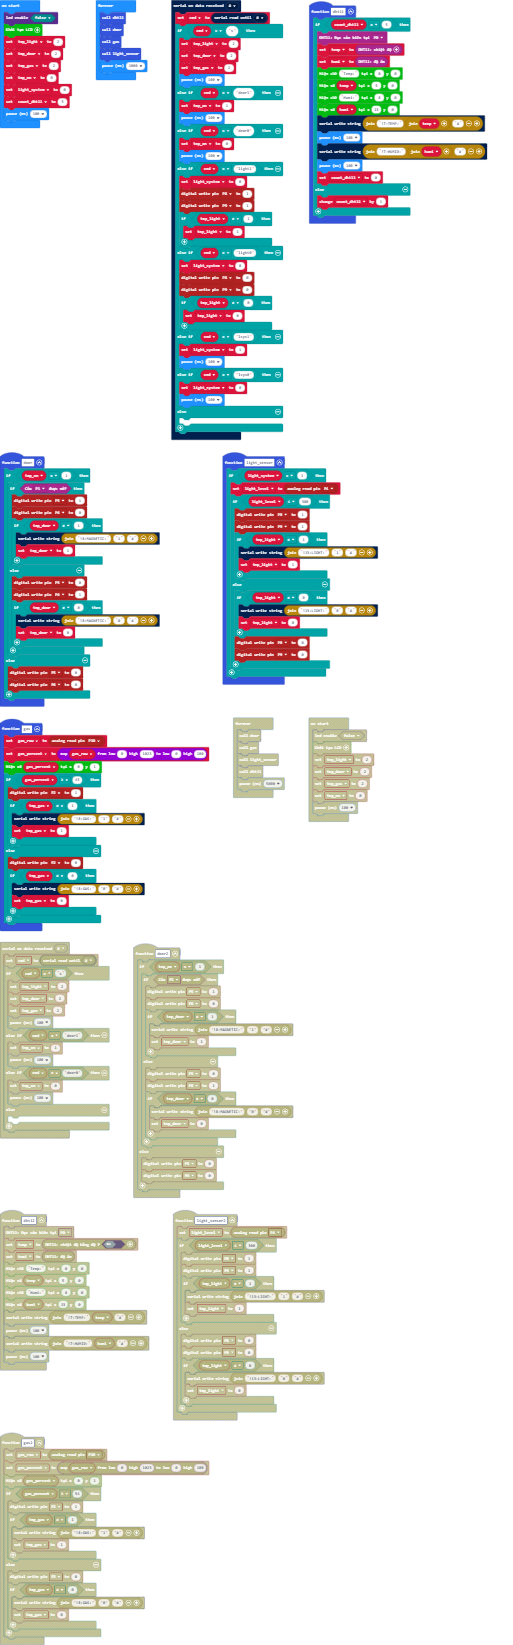
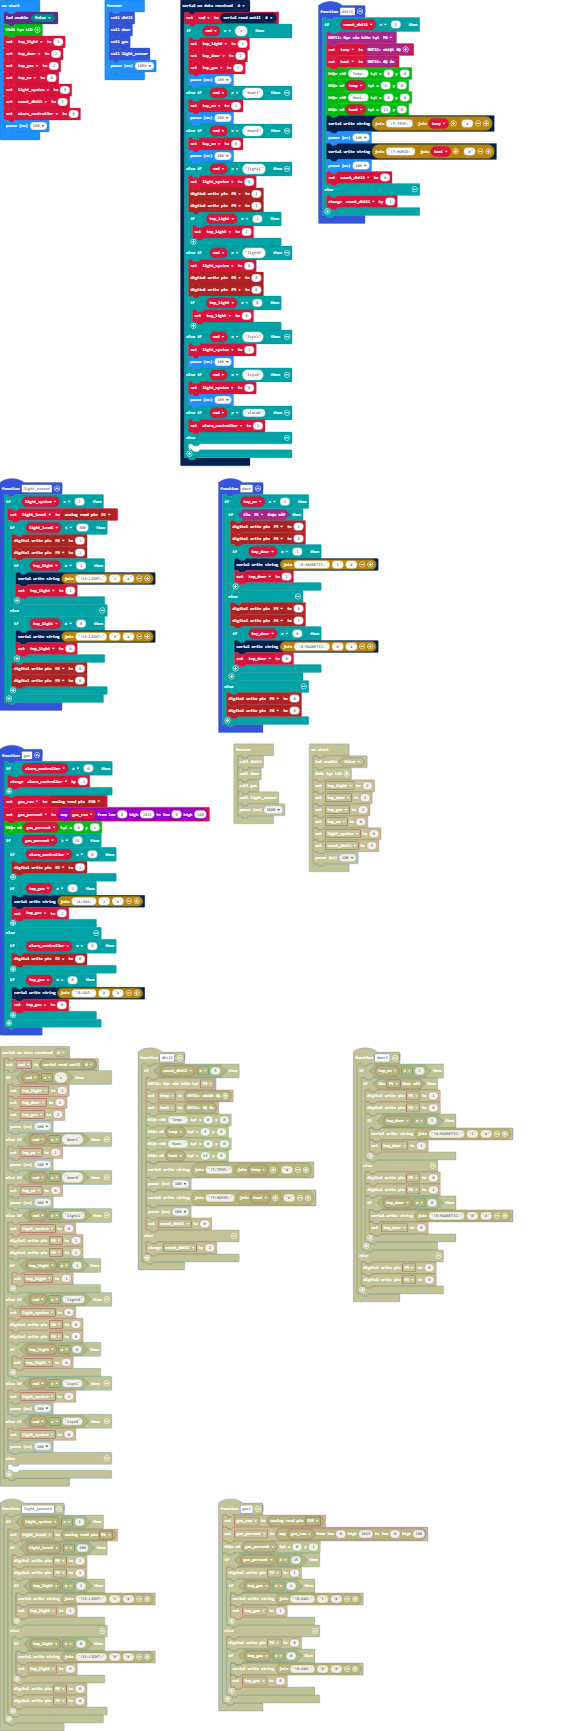
add alarm controller

diff --git a/main.ts b/main.ts
@@ -59,17 +59,24 @@ function door () {
     }
 }
 function gas () {
+    if (alarm_controller != 0) {
+        alarm_controller += -1
+    }
     gas_raw = pins.analogReadPin(AnalogPin.P10)
     gas_percent = Math.map(gas_raw, 0, 1023, 0, 100)
     NPNLCD.ShowNumber(gas_percent, 0, 1)
     if (gas_percent >= 45) {
-        pins.digitalWritePin(DigitalPin.P2, 1)
+        if (alarm_controller == 0) {
+            pins.digitalWritePin(DigitalPin.P2, 1)
+        }
         if (tmp_gas != 1) {
             serial.writeString("!8:GAS:" + "1" + "#")
             tmp_gas = 1
         }
     } else {
-        pins.digitalWritePin(DigitalPin.P2, 0)
+        if (alarm_controller == 0) {
+            pins.digitalWritePin(DigitalPin.P2, 0)
+        }
         if (tmp_gas != 0) {
             serial.writeString("!8:GAS:" + "0" + "#")
             tmp_gas = 0
@@ -109,6 +116,8 @@ serial.onDataReceived(serial.delimiters(Delimiters.Hash), function () {
     } else if (cmd == "lsys0") {
         light_system = 0
         basic.pause(100)
+    } else if (cmd == "alarm0") {
+        alarm_controller = 3
     } else {
     	
     }
@@ -119,6 +128,7 @@ let gas_raw = 0
 let light_level = 0
 let humi = 0
 let temp = 0
+let alarm_controller = 0
 let count_dht11 = 0
 let light_system = 0
 let tmp_on = 0
@@ -133,6 +143,7 @@ tmp_gas = 2
 tmp_on = 0
 light_system = 0
 count_dht11 = 5
+alarm_controller = 0
 basic.pause(100)
 basic.forever(function () {
     dht11()
